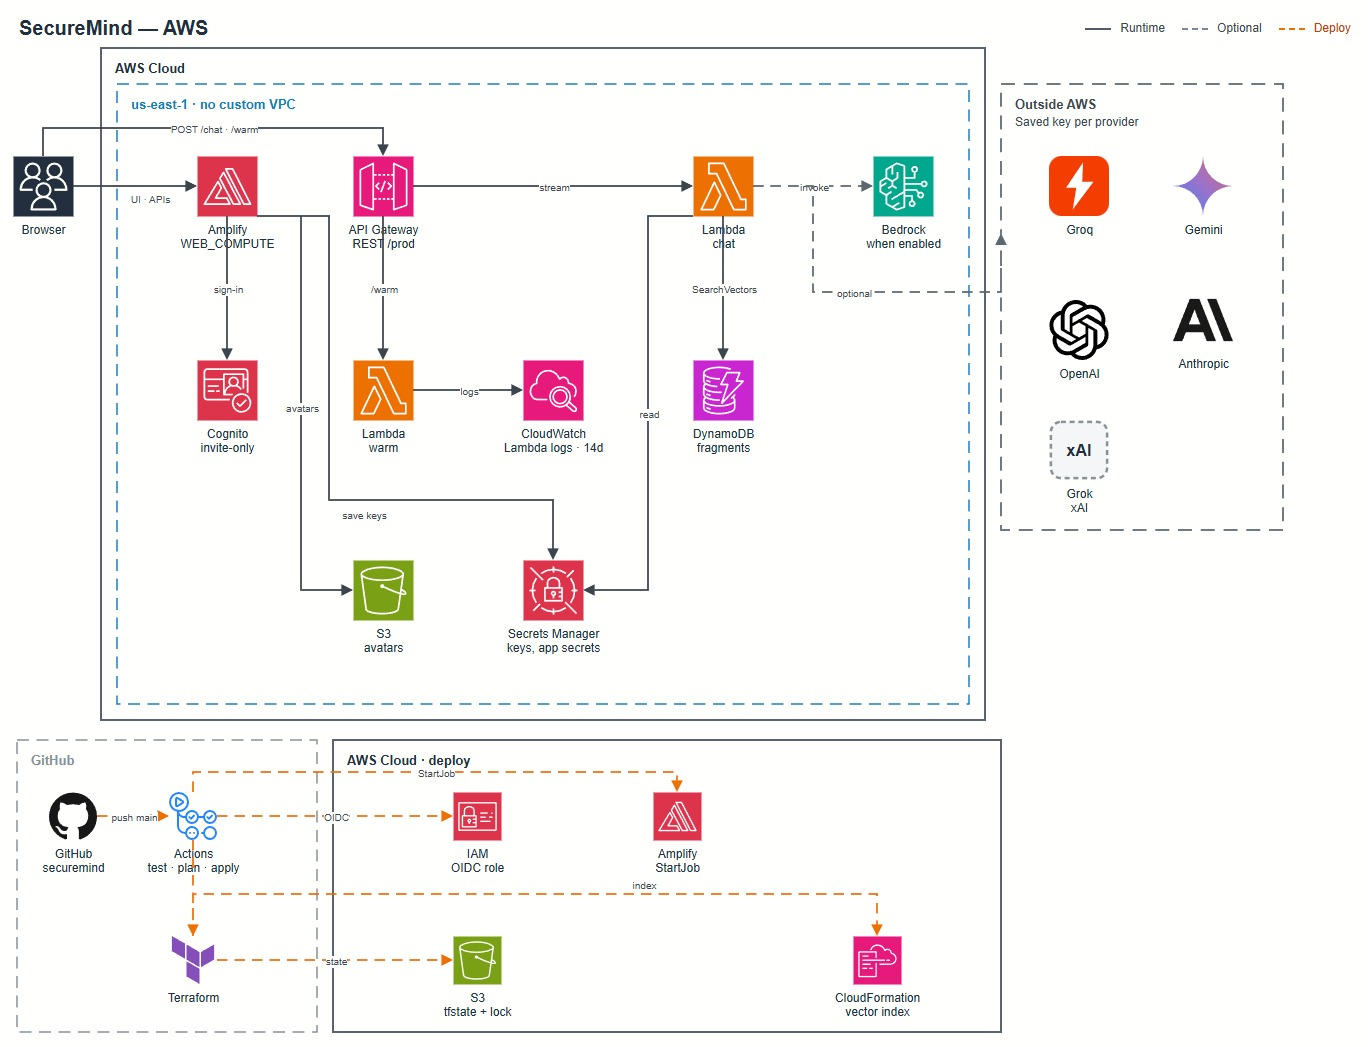
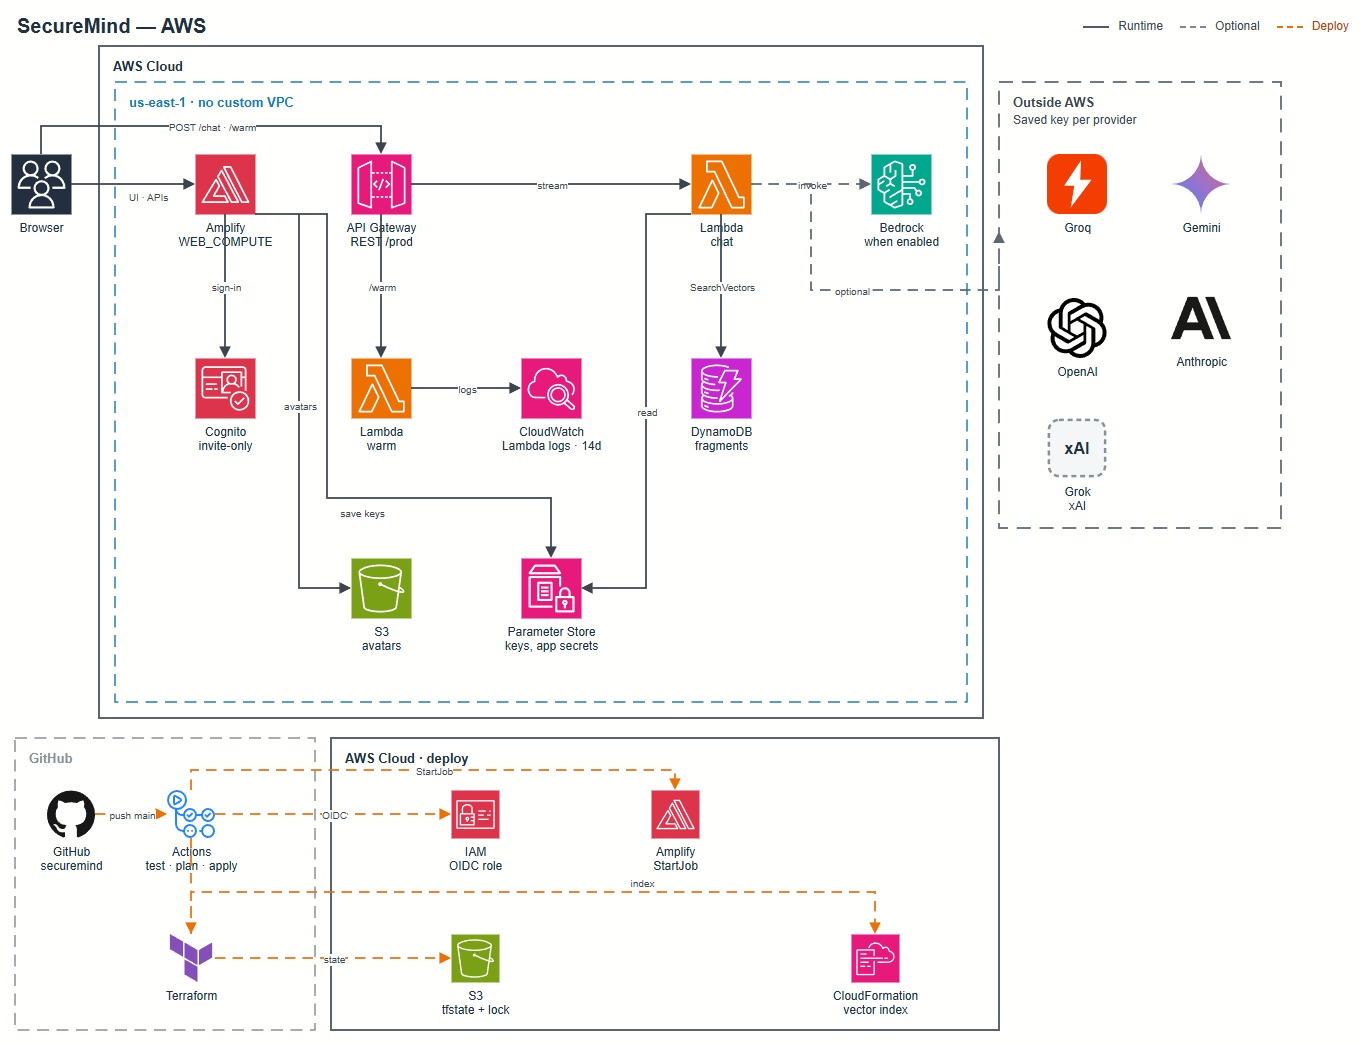
Docs: hosted secrets are in Parameter Store (SecureString)
Updates the README, deploy guides, ADRs, Technical Guide, AWS diagram and
the bootstrap deploy role (adds ssm permissions).

diff --git a/src/lib/instance-config.ts b/src/lib/instance-config.ts
@@ -638,7 +638,7 @@ export async function resolveRuntimeSecrets(): Promise<{
       ? primary
       : "auto",
     groqApiKey: row?.groqApiKey?.trim() || process.env.GROQ_API_KEY?.trim() || null,
-    /** Admin-pasted key only (hosted: Secrets Manager vendor-keys overlay). Not the deploy-time GROQ_SECRET_ARN default. */
+    /** Admin-pasted key only (hosted: Parameter Store vendor-keys overlay). Not the deploy-time Groq bootstrap default. */
     instanceGroqApiKey: row?.groqApiKey?.trim() || null,
     bedrockRegion:
       row?.bedrockRegion?.trim() ||

diff --git a/lambda/chat/handler.ts b/lambda/chat/handler.ts
@@ -2,7 +2,7 @@
  * Streaming chat Lambda for API Gateway REST response streaming.
  *
  * Localhost continues to use Next.js /api/chat.
- * Hydrate Secrets Manager bootstrap env before importing DB-backed chat code.
+ * Hydrate Parameter Store (or older Secrets Manager) bootstrap env before importing DB-backed chat code.
  */
 
 import { getIdentity, IdentityError } from "../../src/lib/identity";

diff --git a/scripts/build-interview-brief-docx.py b/scripts/build-interview-brief-docx.py
@@ -718,7 +718,7 @@ def build() -> None:
         doc,
         "On a local or Docker install, Groq and other vendor keys (Google, OpenAI, Anthropic, and stored-only Azure) live in InstanceConfig, encrypted with AES-256-GCM. The ciphertext prefix is smenc:v1:. "
         "The key is INSTANCE_ENCRYPTION_KEY, or a file created under .data/instance.key, which in Docker is on the /data volume. API responses return a masked last-four hint, never the secret. "
-        "On the hosted runtime, those pasted vendor keys are written to Secrets Manager (securemind/<env>/vendor-keys) and cleared off the config row. A deploy-time Groq secret is separate from the admin-pasted key.",
+        "On the hosted runtime, those pasted vendor keys are written to Parameter Store as a SecureString (/securemind/<env>/vendor-keys) and cleared off the config row. A deploy-time Groq secret is separate from the admin-pasted key.",
     )
     body(
         doc,
@@ -796,7 +796,7 @@ def build() -> None:
     h1(doc, "20.  Hosted AWS")
     say(
         doc,
-        "The hosted shape is regional managed services, not a VPC I invented. Amplify hosts the UI. API Gateway and Lambda stream chat. Cognito is invite-only. DynamoDB holds fragments and the vector index. Secrets Manager holds bootstrap and vendor keys. A private bucket holds avatars. CloudWatch holds logs. Bedrock is optional and uses the account’s own IAM.",
+        "The hosted shape is regional managed services, not a VPC I invented. Amplify hosts the UI. API Gateway and Lambda stream chat. Cognito is invite-only. DynamoDB holds fragments and the vector index. Parameter Store holds the encryption key, setup code and vendor keys. A private bucket holds avatars. CloudWatch holds logs. Bedrock is optional and uses the account’s own IAM.",
     )
     body(
         doc,
@@ -854,7 +854,7 @@ def build() -> None:
     bullet(doc, "Policy changes go forward only. ", "Tightening a tier cannot backfill old files, because the raw text is gone. Loosening cannot un-redact. The admin dialog has to say that.")
     bullet(doc, "404, not 403. ", "Authorization responses should not confirm that another person’s id exists.")
     bullet(doc, "Postgres locally, DynamoDB when hosted. ", "One consistent write and zero idle cost for development. Native vectors later made a single-table hosted store honest. OpenSearch and always-on Aurora were the expensive wrong answers.")
-    bullet(doc, "Do not accept AWS keys in the product. ", "A database full of long-lived cloud keys is a worse design than asking the SDK to use a profile, SSO, or a role. Vendor API keys are scoped differently and are encrypted or stored in Secrets Manager.")
+    bullet(doc, "Do not accept AWS keys in the product. ", "A database full of long-lived cloud keys is a worse design than asking the SDK to use a profile, SSO, or a role. Vendor API keys are scoped differently and are encrypted or stored in Parameter Store.")
     bullet(doc, "Live Bedrock catalog. ", "A checked-in model list rots. Bedrock retires versions.")
     bullet(doc, "Enable, not automatic listing. ", "A key proves the vendor knows you. It does not prove the model is allowed to answer in that account.")
     bullet(doc, "Amplify for UI, Lambda for the stream. ", "Amplify does not stream Next API routes. API Gateway response streaming does. App Runner was simpler and always warm, and the idle cost was the reason it stopped being the default.")
@@ -891,7 +891,7 @@ def build() -> None:
     h2(doc, "Where do secrets live?")
     body(
         doc,
-        "Vendor keys: encrypted in InstanceConfig locally, Secrets Manager when hosted. AWS keys: nowhere in the app. They resolve from the SDK chain. The encryption key for local vendor secrets is an env var or a file on the data volume, not a value returned by the API.",
+        "Vendor keys: encrypted in InstanceConfig locally, Parameter Store (SecureString) when hosted. AWS keys: nowhere in the app. They resolve from the SDK chain. The encryption key for local vendor secrets is an env var or a file on the data volume, not a value returned by the API.",
     )
     h2(doc, "Why not embed every message so the bot remembers everything?")
     body(
@@ -911,7 +911,7 @@ def build() -> None:
     h2(doc, "Why is the AWS diagram missing a VPC?")
     body(
         doc,
-        "Because the hosted design does not create one. Amplify, API Gateway, Lambda, DynamoDB, Cognito, Secrets Manager, S3, CloudWatch, and Bedrock are regional services. Drawing a VPC would be fiction.",
+        "Because the hosted design does not create one. Amplify, API Gateway, Lambda, DynamoDB, Cognito, Parameter Store, S3, CloudWatch, and Bedrock are regional services. Drawing a VPC would be fiction.",
     )
     h2(doc, "What broke, and what did you change?")
     body(

diff --git a/scripts/build-technical-guide-docx.py b/scripts/build-technical-guide-docx.py
@@ -454,7 +454,7 @@ def build() -> None:
 
     h1(doc, "18  Where data is stored")
     body(doc, "Local path. The browser talks to Next.js on port 3000. Postgres holds workspaces, messages, documents, facts, profiles, and analytics. pgvector holds 768-dimension embeddings. The vector column is created outside Prisma and queried with raw SQL that must filter by user id. Sign-in in Docker goes to Floci. Chat and embeddings can go to Ollama on port 11434. Uploads, avatars, and the instance encryption key are files under the data directory. Optional Bedrock uses the machine's AWS credential chain. Optional vendor calls use the stored key.")
-    body(doc, "Hosted path. Amplify serves the UI, sign-in, workspaces, settings, and the non-chat APIs. The chat stream goes to API Gateway and the chat Lambda. Application records and the vector index use DynamoDB. Cognito is the user pool. Secrets Manager holds bootstrap values such as the table name and an optional Groq key. Administrator vendor keys remain in instance configuration, not in that bootstrap secret. Profile photos use a private bucket. CloudWatch holds Lambda logs. Prompt and response content logging is not turned on for that dashboard. There is no custom VPC in the current shape. The region is chosen in the infrastructure configuration. The in-app setup wizard asks for a storage preference and a risk acknowledgement. It does not ask for a region.")
+    body(doc, "Hosted path. Amplify serves the UI, sign-in, workspaces, settings, and the non-chat APIs. The chat stream goes to API Gateway and the chat Lambda. Application records and the vector index use DynamoDB. Cognito is the user pool. Systems Manager Parameter Store holds the hosted secrets as encrypted SecureString parameters: the instance encryption key and first-run setup code, the vendor keys an administrator saves, and an optional bootstrap Groq key. Standard parameters have no monthly charge. The table name is a plain setting, not a secret. Profile photos use a private bucket. CloudWatch holds Lambda logs. Prompt and response content logging is not turned on for that dashboard. There is no custom VPC in the current shape. The region is chosen in the infrastructure configuration. The in-app setup wizard asks for a storage preference and a risk acknowledgement. It does not ask for a region.")
     body(doc, "A push to the application main branch runs tests and, when the sandbox role and state bucket are configured, applies Terraform and starts an Amplify release. Pull requests plan only. Neon and Aurora are not the current database. They are not mixed with DynamoDB.")
 
     h1(doc, "19  What this system does not do")

diff --git a/scripts/build-architecture-docx.py b/scripts/build-architecture-docx.py
@@ -409,7 +409,7 @@ def build() -> None:
     h2(doc, "5.2  In your AWS account")
     body_para(
         doc,
-        "The interface is hosted on Amplify. Chat streaming goes through API Gateway to a Lambda. Sign-in is an invite-only Cognito user pool. Workspaces, messages, and vectors live in DynamoDB. Vendor keys live in Secrets Manager. Profile photos live in a private S3 bucket. There is no custom VPC. These are regional services in the account you operate.",
+        "The interface is hosted on Amplify. Chat streaming goes through API Gateway to a Lambda. Sign-in is an invite-only Cognito user pool. Workspaces, messages, and vectors live in DynamoDB. Vendor keys live in Parameter Store as an encrypted SecureString. Profile photos live in a private S3 bucket. There is no custom VPC. These are regional services in the account you operate.",
     )
     body_para(
         doc,

diff --git a/docs/technical-source-brief.md b/docs/technical-source-brief.md
@@ -192,7 +192,7 @@ Browser → Next.js on :3000 → Postgres (workspaces, messages, documents, fact
 
 Hosted path:
 
-Browser → Amplify (WEB_COMPUTE) for the UI, sign-in, workspaces, settings, and non-chat APIs. Chat stream and warm go to API Gateway REST stage `prod`, then two Lambdas (arm64; chat is the long streaming function). Amplify and the chat Lambda both use the DynamoDB fragments table (app records on Amplify; vector search on the chat path). Cognito is the user pool. Secrets Manager holds the table name, vendor keys, an optional bootstrap Groq key, and one `app-secrets` secret with the instance encryption key and the first-run setup code (the Amplify compute role can read only that one; the server loads it at startup, so neither is a plain Amplify variable). Profile photos are a private S3 bucket. CloudWatch holds Lambda logs (14 days) and a Bedrock metrics dashboard. Prompt and response content logging is not turned on by that dashboard.
+Browser → Amplify (WEB_COMPUTE) for the UI, sign-in, workspaces, settings, and non-chat APIs. Chat stream and warm go to API Gateway REST stage `prod`, then two Lambdas (arm64; chat is the long streaming function). Amplify and the chat Lambda both use the DynamoDB fragments table (app records on Amplify; vector search on the chat path). Cognito is the user pool. Parameter Store (SecureString, AWS-managed key) holds the vendor keys, an optional bootstrap Groq key, and one `app-secrets` parameter with the instance encryption key and the first-run setup code (the Amplify compute role can read only that one; the server loads it at startup, so neither is a plain Amplify variable). The table name is a plain setting, not a secret. Standard parameters have no monthly charge. Profile photos are a private S3 bucket. CloudWatch holds Lambda logs (14 days) and a Bedrock metrics dashboard. Prompt and response content logging is not turned on by that dashboard.
 
 CI on `main`: GitHub Actions runs tests, assumes an OIDC role, Terraform-applies the sandbox (when the role and state bucket are configured), and starts an Amplify release job. State is an S3 bucket. The lock is an object in that same bucket. Pull requests plan only.
 

diff --git a/docs/deploy/aws-from-zero.md b/docs/deploy/aws-from-zero.md
@@ -23,7 +23,7 @@ You also need:
 
 - **An AWS account you administer.** Not an organization's shared management account — your own account, or a member account you control. [Create one here](https://aws.amazon.com/) if you don't have one yet.
 - **A way to sign in to that account from the CLI.** AWS SSO (IAM Identity Center) is the normal path and is what this guide uses. A long-lived IAM access key also works, but is not recommended.
-- **Permission in that account** to create IAM roles/policies, S3 buckets, Lambda functions, API Gateway, Cognito, Amplify apps, DynamoDB tables, and Secrets Manager entries. If this is your own account and you are the root/admin user, you already have this.
+- **Permission in that account** to create IAM roles/policies, S3 buckets, Lambda functions, API Gateway, Cognito, Amplify apps, DynamoDB tables, and Systems Manager parameters. If this is your own account and you are the root/admin user, you already have this.
 - **A GitHub account**, and your own copy of this repository (a fork, or a push to a new repo you own). The Terraform bootstrap step creates an IAM role that trusts *your* GitHub repository — it needs that repository to exist first.
 - **Optional:** access to [Amazon Bedrock models](https://docs.aws.amazon.com/bedrock/latest/userguide/model-access-modify.html) in that account, if you want chat to work without pasting a vendor API key. You can skip this and add a Groq/OpenAI/Gemini/Anthropic key in Settings after you're signed in instead.
 

diff --git a/docs/adr/0004-amplify-lambda-hosting.md b/docs/adr/0004-amplify-lambda-hosting.md
@@ -18,7 +18,7 @@ SecureMind needs a permanently hosted AWS path that stays cheap at low traffic, 
 2. **API Gateway REST** + **Lambda** — application APIs, with **response streaming** for chat  
 3. **DynamoDB + native vectors** — hosted AWS data plane (ADR 0007). Terraform provisions the fragments table (nested CFN for the vector index until the AWS provider supports it). Local / on-prem remains Postgres + pgvector (ADR 0002). Neon/Aurora are optional opt-ins, not the default.  
 4. **Cognito** — invite-only (`infra/terraform/modules/auth_cognito`; no public self-signup)  
-5. **Secrets Manager** — hosted bootstrap is table name/ARN + optional deploy-time Groq. Admin-pasted vendor keys (Groq, Google, OpenAI, Anthropic) are written to Secrets Manager (`securemind/<env>/vendor-keys`). InstanceConfig does not store those values.  
+5. **Parameter Store** — originally Secrets Manager; moved 2026-10-18 because a standard SecureString parameter has no monthly charge and a secret costs $0.40. The instance encryption key and setup code are one parameter (`/securemind/<env>/app-secrets`), and the optional deploy-time Groq key is another. Admin-pasted vendor keys (Groq, Google, OpenAI, Anthropic) are written to `/securemind/<env>/vendor-keys`. The table name is a plain setting. InstanceConfig does not store those values.  
 6. **Local/dev** — `npm run dev` keeps same-origin `/api/*`; remote API is opt-in via `NEXT_PUBLIC_API_BASE_URL`
 
 **Local vs cloud providers**

diff --git a/docs/adr/0005-admin-security-policy.md b/docs/adr/0005-admin-security-policy.md
@@ -12,7 +12,7 @@ Sensitivity tiers and safe terms lived in browser `localStorage`, so Members cou
 2. **Ingest**: `scrubDocumentText` loads policy via `resolveIngestScrubOptions()` — never from the upload body.
 3. **Propose / accept**: Anyone authenticated may `POST` a pending proposal; only Admin applies.
 4. **Going forward only**: Changing sensitivity or safe terms updates the policy for **new** chat sends and **new** Knowledge ingest. Existing messages and documents are not re-scanned or rewritten. Already-redacted values cannot be restored (no raw retention). Defaults still merge with instance safe terms for detection.
-5. **Hosted vs local**: Hosted uses Cognito Admin/Member; local `AUTH_MODE=local` remains Admin. Ollama stays local-only; Bedrock is optional via SSO. No KMS required; Secrets Manager for bootstrap URLs/keys. Bedrock content logging stays opt-in.
+5. **Hosted vs local**: Hosted uses Cognito Admin/Member; local `AUTH_MODE=local` remains Admin. Ollama stays local-only; Bedrock is optional via SSO. No KMS required; Parameter Store (SecureString) for bootstrap keys (originally Secrets Manager; moved 2026-10-18 to avoid the $0.40-a-secret charge). Bedrock content logging stays opt-in.
 
 ### Consequences
 

diff --git a/infra/README.md b/infra/README.md
@@ -29,7 +29,7 @@ Chat/workspaces/settings still use Prisma in application code. That leftover is 
 - [Terraform 1.14](https://developer.hashicorp.com/terraform/install) or newer. The state lock is an S3 lock file.
 - [Node.js 20](https://nodejs.org/) or newer.
 - [Git](https://git-scm.com/downloads), and a GitHub repository you can connect to Amplify.
-- Permission to create IAM, S3, Lambda, API Gateway, Cognito, Amplify, DynamoDB, Secrets Manager, and CloudFormation.
+- Permission to create IAM, S3, Lambda, API Gateway, Cognito, Amplify, DynamoDB, Systems Manager Parameter Store, and CloudFormation.
 - Optional, for a model with no vendor key: [Bedrock model access](https://docs.aws.amazon.com/bedrock/latest/userguide/model-access-modify.html) for Titan Text Embeddings v2 and a chat model.
 
 Hosted resources can incur AWS charges. Tear the stack down with `npm run infra:down -- --yes`.

diff --git a/README.md b/README.md
@@ -95,7 +95,7 @@ These resources can incur AWS charges. Remove them with `npm run infra:down -- -
 - [Node.js 20](https://nodejs.org/) or newer. The apply scripts package the chat Lambda.
 - [Git](https://git-scm.com/downloads)
 - A GitHub repository you control, so you can connect the Amplify GitHub App to your copy.
-- Permission in that account to create IAM, S3, Lambda, API Gateway, Cognito, Amplify, DynamoDB, Secrets Manager, and CloudFormation.
+- Permission in that account to create IAM, S3, Lambda, API Gateway, Cognito, Amplify, DynamoDB, Systems Manager Parameter Store, and CloudFormation.
 - For a model with no vendor key: [Bedrock model access](https://docs.aws.amazon.com/bedrock/latest/userguide/model-access-modify.html) for Titan Text Embeddings v2 and a chat model you will use. Access in the console is separate from IAM.
 
 The example region is `us-east-1`.

diff --git a/docs/adr/0007-hosted-dynamodb-vectors.md b/docs/adr/0007-hosted-dynamodb-vectors.md
@@ -61,7 +61,7 @@ All three share the same item shape and ranking so swapping engines does not cha
 
 - `src/lib/storage/dynamodb-vectors.ts` implements put + retrieve. It must not import `@/lib/db`.
 - Default chat retrieval remains Postgres until `STORAGE_BACKEND=dynamodb`.
-- Secrets Manager for hosted bootstrap holds table name/ARN (+ optional Groq), not a Neon URL.
+- Hosted bootstrap holds no Neon URL. It originally kept the table name and an optional Groq key in Secrets Manager; the table name is now a plain setting and the Groq key a Parameter Store SecureString (moved 2026-10-18).
 - Knowledge originals stay off S3 unless explicitly revisited.
 - Hosted table Terraform lives in `infra/terraform/modules/data_dynamodb`. Apply to a real account only when you intend to. Local table: `npm run floci:dynamodb`.
 
